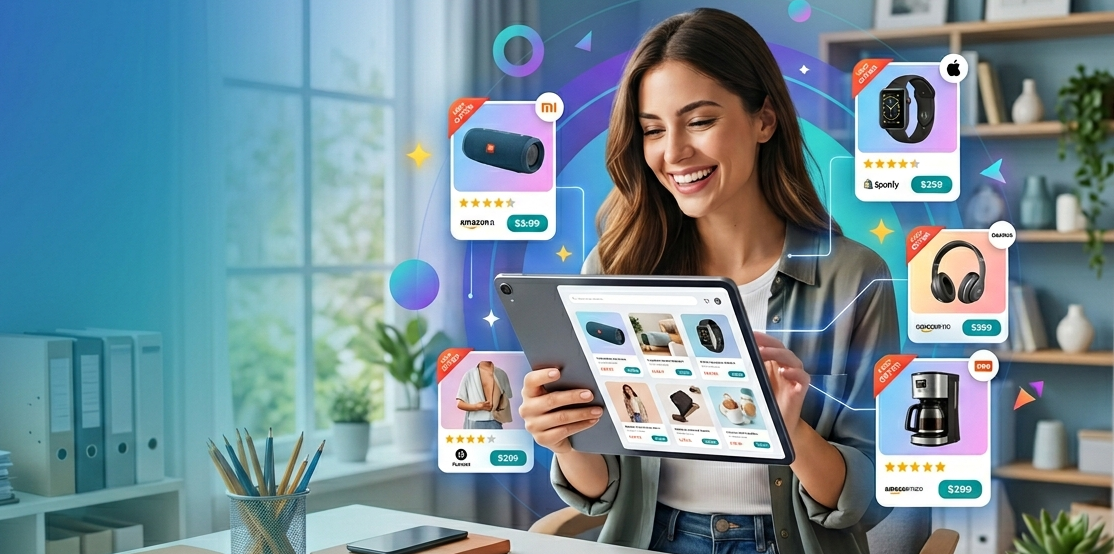
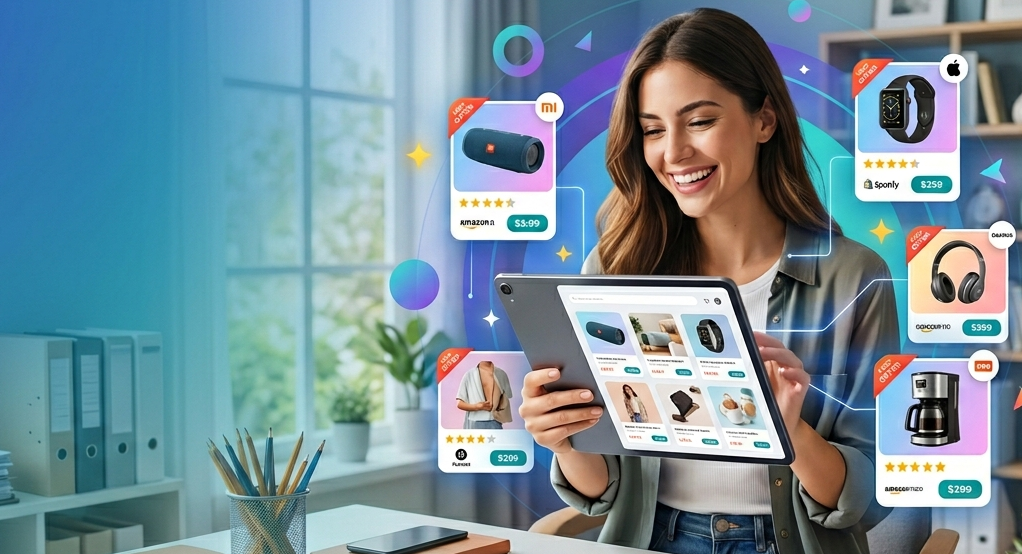
Adiciona estilizacao do hero

diff --git a/styles/header-hero.css b/styles/header-hero.css
@@ -1,7 +1,46 @@
 .header-hero {
-    display: block;
-	background: url("../assets/img/Hero-modelo.png");
+	background: url("../assets/img/Hero-modelo.png") no-repeat center;
 	background-size: cover;
-	background-repeat: no-repeat;
-    height: 180px;
+	height: 200px;
+	overflow: hidden;
+}
+
+.header-hero__title {
+	padding-left: 14px;
+	font-size: 1rem;
+	font-weight: 800;
+	width: 160px;
+	text-align: left;
+	color: var(--secundary-color);
+	line-height: 1.2rem;
+	text-shadow: 0px 4px 4px rgba(0, 0, 0, 0.5);
+}
+
+.header-hero__title .title-blue {
+	color: var(--tertiary-color);
+}
+
+.header-hero .header-hero__text {
+	padding-left: 14px;
+	width: 160px;
+	font-size: 0.6rem;
+	color: var(--secundary-color);
+	text-shadow: 0px 4px 4px rgba(0, 0, 0, 0.5);
+	margin-bottom: 20px;
+}
+
+.button-offert {
+    font-size: 1rem;
+    font-weight: 800;
+	margin-left: 14px;
+	color: var(--secundary-color);
+	text-decoration: none;
+	background: linear-gradient(to top, #ff6600 0%, #ff9900 100%);
+	background: linear-gradient(180deg, #ff9500 0%, #ff5e00 100%);
+	border: none;
+	border-radius: 50px; /* Para o formato pílula */
+	color: var(--secundary-color);
+	padding: 12px 38px;
+	cursor: pointer;
+	box-shadow: 0 4px 15px rgba(255, 115, 0, 0.4);
 }

diff --git a/index.html b/index.html
@@ -24,6 +24,7 @@
 				<ul class="menu menu-closed" id="menu" aria-hidden="true">
 					<li><a href="#">Mercado Livre</a></li>
 					<li><a href="#">Amazon</a></li>
+					<li><a href="#">Shein</a></li>
 					<li><a class="last-button" href="#">Shopee</a></li>
 				</ul>
 				<div class="nav-menu__icon">
@@ -38,7 +39,18 @@
 		</header>
 
 		<main>
-			<span class="header-hero"></span>
+			<section class="header-hero">
+				<h2 class="header-hero__title">
+					DESCOBERTAS INCRÍVEIS QUE
+					<span class="title-blue">VOCÊ VAI AMAR!</span>
+				</h2>
+				<p class="header-hero__text">
+					Explore nossos produtos com os melhores produtos e ofertas
+					irresistíveis de afiliados, selecionados para seu estilo de vida.
+				</p>
+
+				<a class="button-offert" href="#">VER OFERTAS!</a>
+			</section>
 		</main>
 
 		<footer></footer>

diff --git a/styles/header.css b/styles/header.css
@@ -33,8 +33,8 @@
 
 .menu li a:hover,
 .menu li a:focus {
-	background-color: aqua;
-	color: black;
+	background-color: var(--tertiary-color);
+	color: var(--primary-color);
 }
 
 .menu li .last-button:hover,
@@ -45,7 +45,7 @@
 .hamburger-button {
 	background: none;
 	border: none;
-	color: black;
+	color: var(--primary-color);
 	font-size: 32px;
 	padding: 4px 0px 4px 14px;
 	cursor: pointer;

diff --git a/styles/global.css b/styles/global.css
@@ -7,6 +7,8 @@
 
 :root {
 	--primary-color: black;
+	--secundary-color: white;
+	--tertiary-color: #3ee9e3;
 
 	--primary-background: #222222;
 }

diff --git a/styles/styles.css b/styles/styles.css
@@ -1,3 +1,3 @@
 @import url("./global.css");
 @import url("./header.css");
-@import url("header-hero.css");
+@import url("./header-hero.css");
